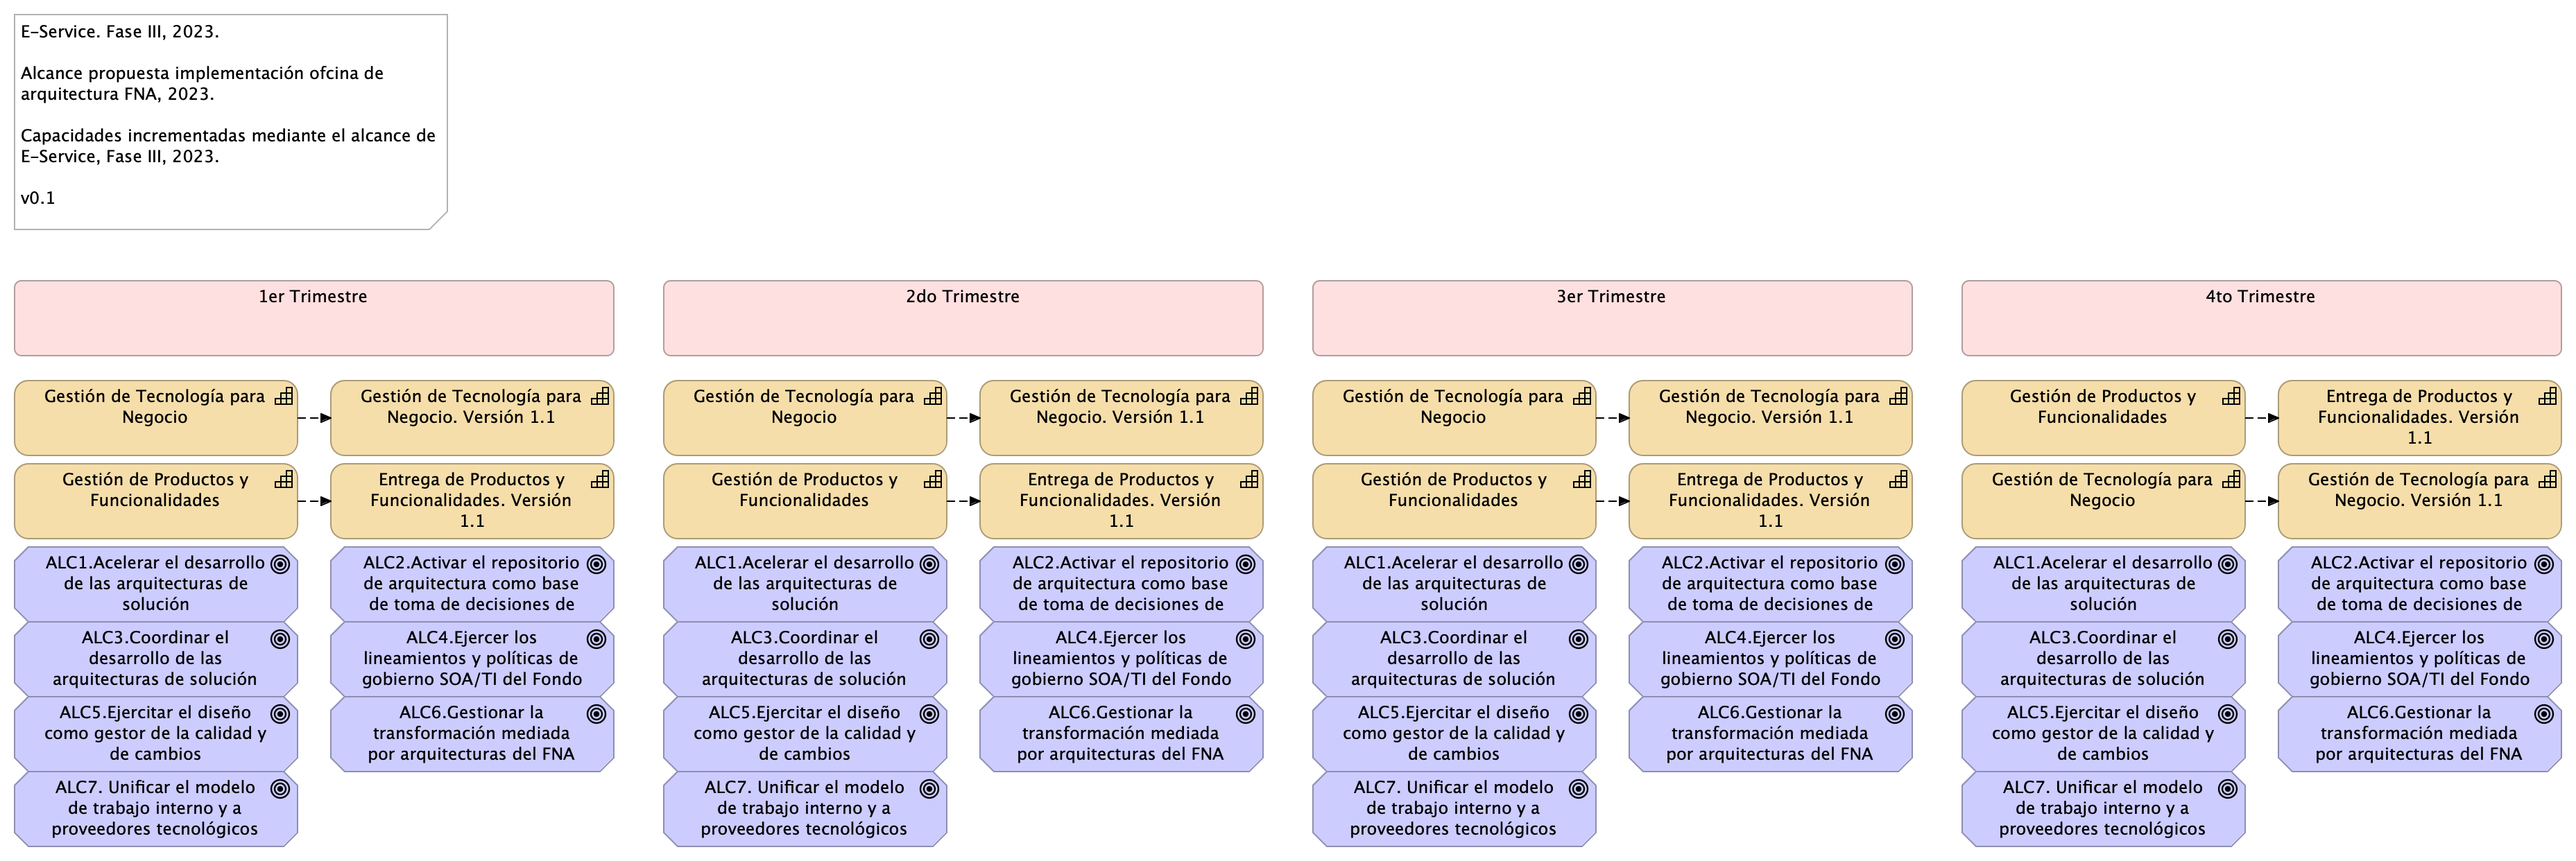
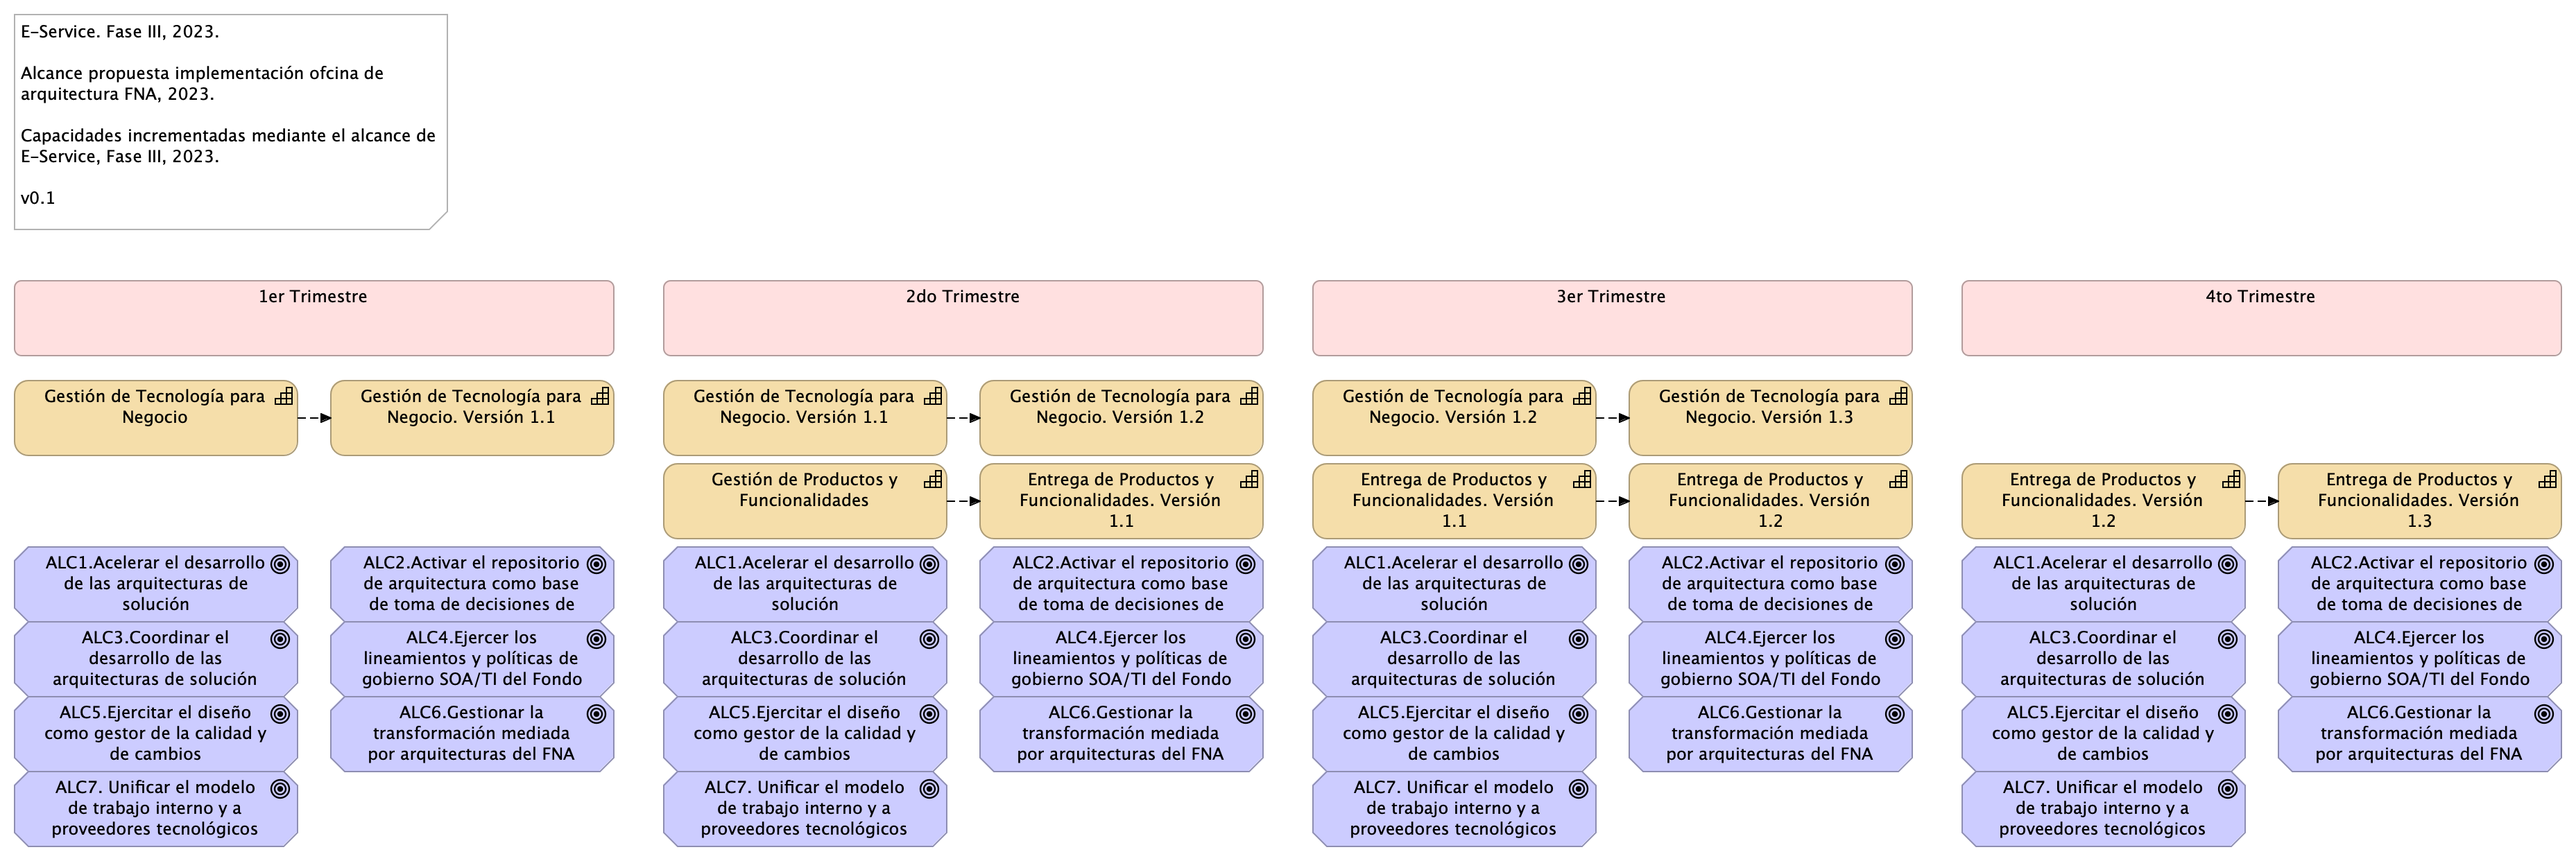
plngral

diff --git a/content/02d.plangeneral.md b/content/02d.plangeneral.md
@@ -1,9 +1,7 @@
 ## Plan General de la Propuesta
-La siguiente imagen presenta a manera de referencia el plan general en el tiempo de los tres proyectos contenidos en el alcance de esta propuesta. Nota: los plazos en la imagen son referenciales. Los plazos reales de cada proyecto, por separado, serán determinados y aceptados en las fases de levantamiento de cada uno.
+El plan general de referencia de de la implementación de la actual propuesta, proyecto $PROY_DESCR, 2023 está resumido en la siguiente imagen. Nota: los plazos en la imagen son referenciales. Únicamente para indicar duración aproximada en cuanto son elementos para evaluar esta propuesta. Los plazos reales de cada fase del alcance, por separado, serán determinados previo a su ejecución y presentamos a aceptación.
 
-![](images/plangeneral.png)
-
-[Imagen 2.]() Vista de tiempo de ejecución de los proyectos de cierre de brecha de la hoja de ruta E-Service consignados en el alcance de esta propuesta, para el período de 5 meses, en el 2023.
+![Vista de tiempo de ejecución de los proyectos de cierre de brecha de la hoja de ruta E-Service consignados en el alcance de esta propuesta, para el período de 5 meses, en el 2023.](images/plangeneral.png){#fig: width=}
 
 <br>
 
@@ -12,13 +10,5 @@ La planeación general no contiene fases ni entregables. En su lugar, cada proye
 ![](images/plangeneral1.png)
 
 [Imagen.]() Vista de tiempo de ejecución del proyecto 01 de cierre de brecha, _PRY01. Gobierno SOA FNA_, de la hoja de ruta E-Service consignados en el alcance de esta propuesta, para el período de 5 meses, en el 2023.
-
-![](images/plangeneral2.png)
-
-[Imagen.]() Vista de tiempo de ejecución del proyecto 02 de cierre de brecha, _PRY02. Arquitectura Referencia_, de la hoja de ruta E-Service consignados en el alcance de esta propuesta, para el período de 5 meses, en el 2023.
-
-![](images/plangeneral3.png)
-
-[Imagen.]() Vista de tiempo de ejecución del proyecto 03 de cierre de brecha, _PRY03. Estructuración de proyectos_, de la hoja de ruta E-Service consignados en el alcance de esta propuesta, para el período de 5 meses, en el 2023.
 
 <br>

diff --git a/content/02b.alcance.md b/content/02b.alcance.md
@@ -1,6 +1,6 @@
 ## Alcance de la Propuesta $TEMADOC
 Para el período 2023, la implementación de la Oficina de arquitectura FNA impactará las capacidades Gestión de tecnología (CAP1) y de Entrega de productos y funcionalidades (CAP2)
-del FNA (fuente, E-Service Fase I), _en el dominio de aplicaciones y servicios_ (restricción de alcance). Este alcance implica la planeación, ejecución y seguimiento de los actividades y objetos siguientes:
+del FNA (fuente, E-Service Fase I) versión origen, _en el dominio de aplicaciones y servicios_ (restricción de alcance), hasta llevarlas a la versión 1.3 respectivamente. Este alcance implica la planeación, ejecución y seguimiento de los actividades y objetos siguientes:
 
 - Gestionar la transformación mediada por arquitecturas del FNA
 - Activar el repositorio de arquitectura como base de toma de decisiones de cambio
@@ -12,8 +12,8 @@ del FNA (fuente, E-Service Fase I), _en el dominio de aplicaciones y servicios_ 
 
 <br>
 
-El alcance de la propuesta actual, $TEMADOC, es el ilustrado a continuación.
+El alcance de la propuesta actual, $TEMADOC, que busca impactar a las capacidades hasta llevarlas a la versión 1.3 es el ilustrado a continuación.
 
-![Vista de evolución de capacidades dentro del alcance del proyecto de implementación de la oficina de arquitectura, E-Service, Fase III, 2023.)](images/ppstaalcance.png){#fig:ppstaalcance.png width=}
+![Vista de evolución de capacidades, versión 1.3, dentro del alcance del proyecto de implementación de la oficina de arquitectura, E-Service, Fase III, 2023.)](images/ppstaalcance.png){#fig:ppstaalcance.png width=}
 
 <br>
